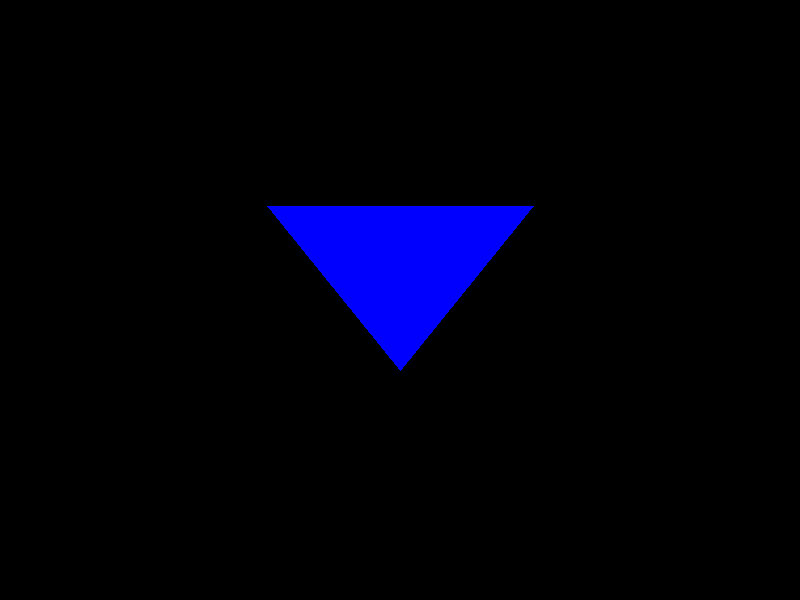
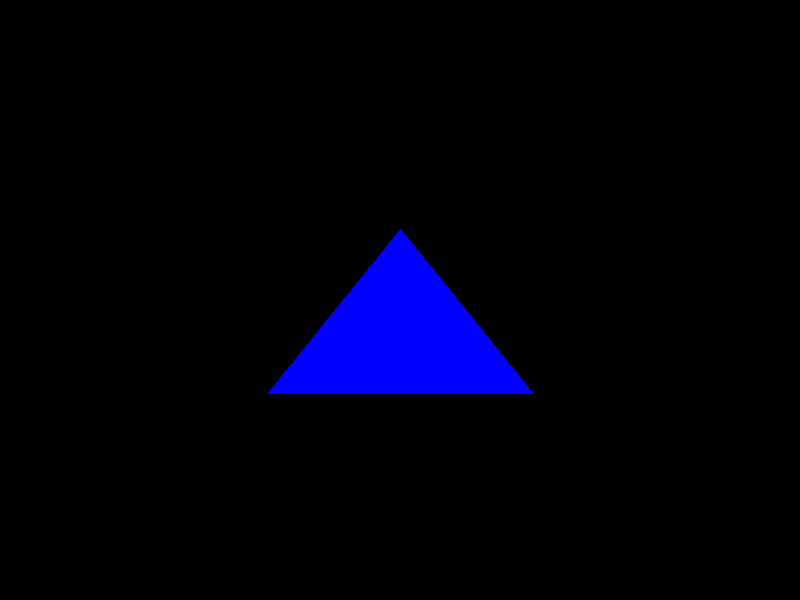
feat: add triangularMesh view

Changed region(s): [[0.3438, 0.33, 0.6875, 0.66]]

diff --git a/tests/project_v0/version_00.cpp b/tests/project_v0/version_00.cpp
@@ -36,13 +36,43 @@ TriangularMesh buildMesh() {
     return tMesh;
 }
 
+void image00(const Scene &scene) {
+    Camera camera(Point(-200, -200, 50), Point(0, 0, 50), HEIGHT, WIDTH);
+    Frame frame = camera.take(scene);
+    assert(saveAsPng(frame, "assets/outputs/version_00/image_00.png"));
+}
+
+void image01(const Scene &scene){
+    Camera camera(Point(-200, -200, 200), Point(0, 0, 50), HEIGHT, WIDTH);
+    Frame frame = camera.take(scene);
+    assert(saveAsPng(frame, "assets/outputs/version_00/image_01.png"));
+}
+
+void image02(const Scene &scene){
+    Camera camera(Point(-200, -200, 0), Point(0, 0, 50), HEIGHT, WIDTH);
+    Frame frame = camera.take(scene);
+    assert(saveAsPng(frame, "assets/outputs/version_00/image_02.png"));
+}
+
+void image03(const Scene &scene){
+    Camera camera(Point(-200, -200, -100), Point(0, 0, 50), HEIGHT, WIDTH);
+    Frame frame = camera.take(scene);
+    assert(saveAsPng(frame, "assets/outputs/version_00/image_03.png"));
+}
+
+void image04(const Scene &scene){
+    Camera camera(Point(-200, 0, 50), Point(0, 0, 50), HEIGHT, WIDTH);
+    Frame frame = camera.take(scene);
+    assert(saveAsPng(frame, "assets/outputs/version_00/image_04.png"));
+}
+
 int main() {
     Scene scene;
     scene.addObject(buildMesh());
 
-    Camera camera(Point(-200, -200, 50), Point(0, 0, 50), HEIGHT, WIDTH);
-
-    Frame frame = camera.take(scene);
-
-    assert(saveAsPng(frame, "assets/outputs/version_00/image_00.png"));
+    image00(scene);
+    image01(scene);
+    image02(scene);
+    image03(scene);
+    image04(scene);
 }

diff --git a/src/graphic/camera.cpp b/src/graphic/camera.cpp
@@ -56,7 +56,7 @@ Frame Camera::take(const Scene &scene) const {
             Ray ray = createRay(x, y);
             Color color = scene.traceRay(ray);
 
-            frame.setPixel(x, y, Pixel(color));
+            frame.setPixel(x, (vPixels - y - 1), Pixel(color));
         }
     }
 
